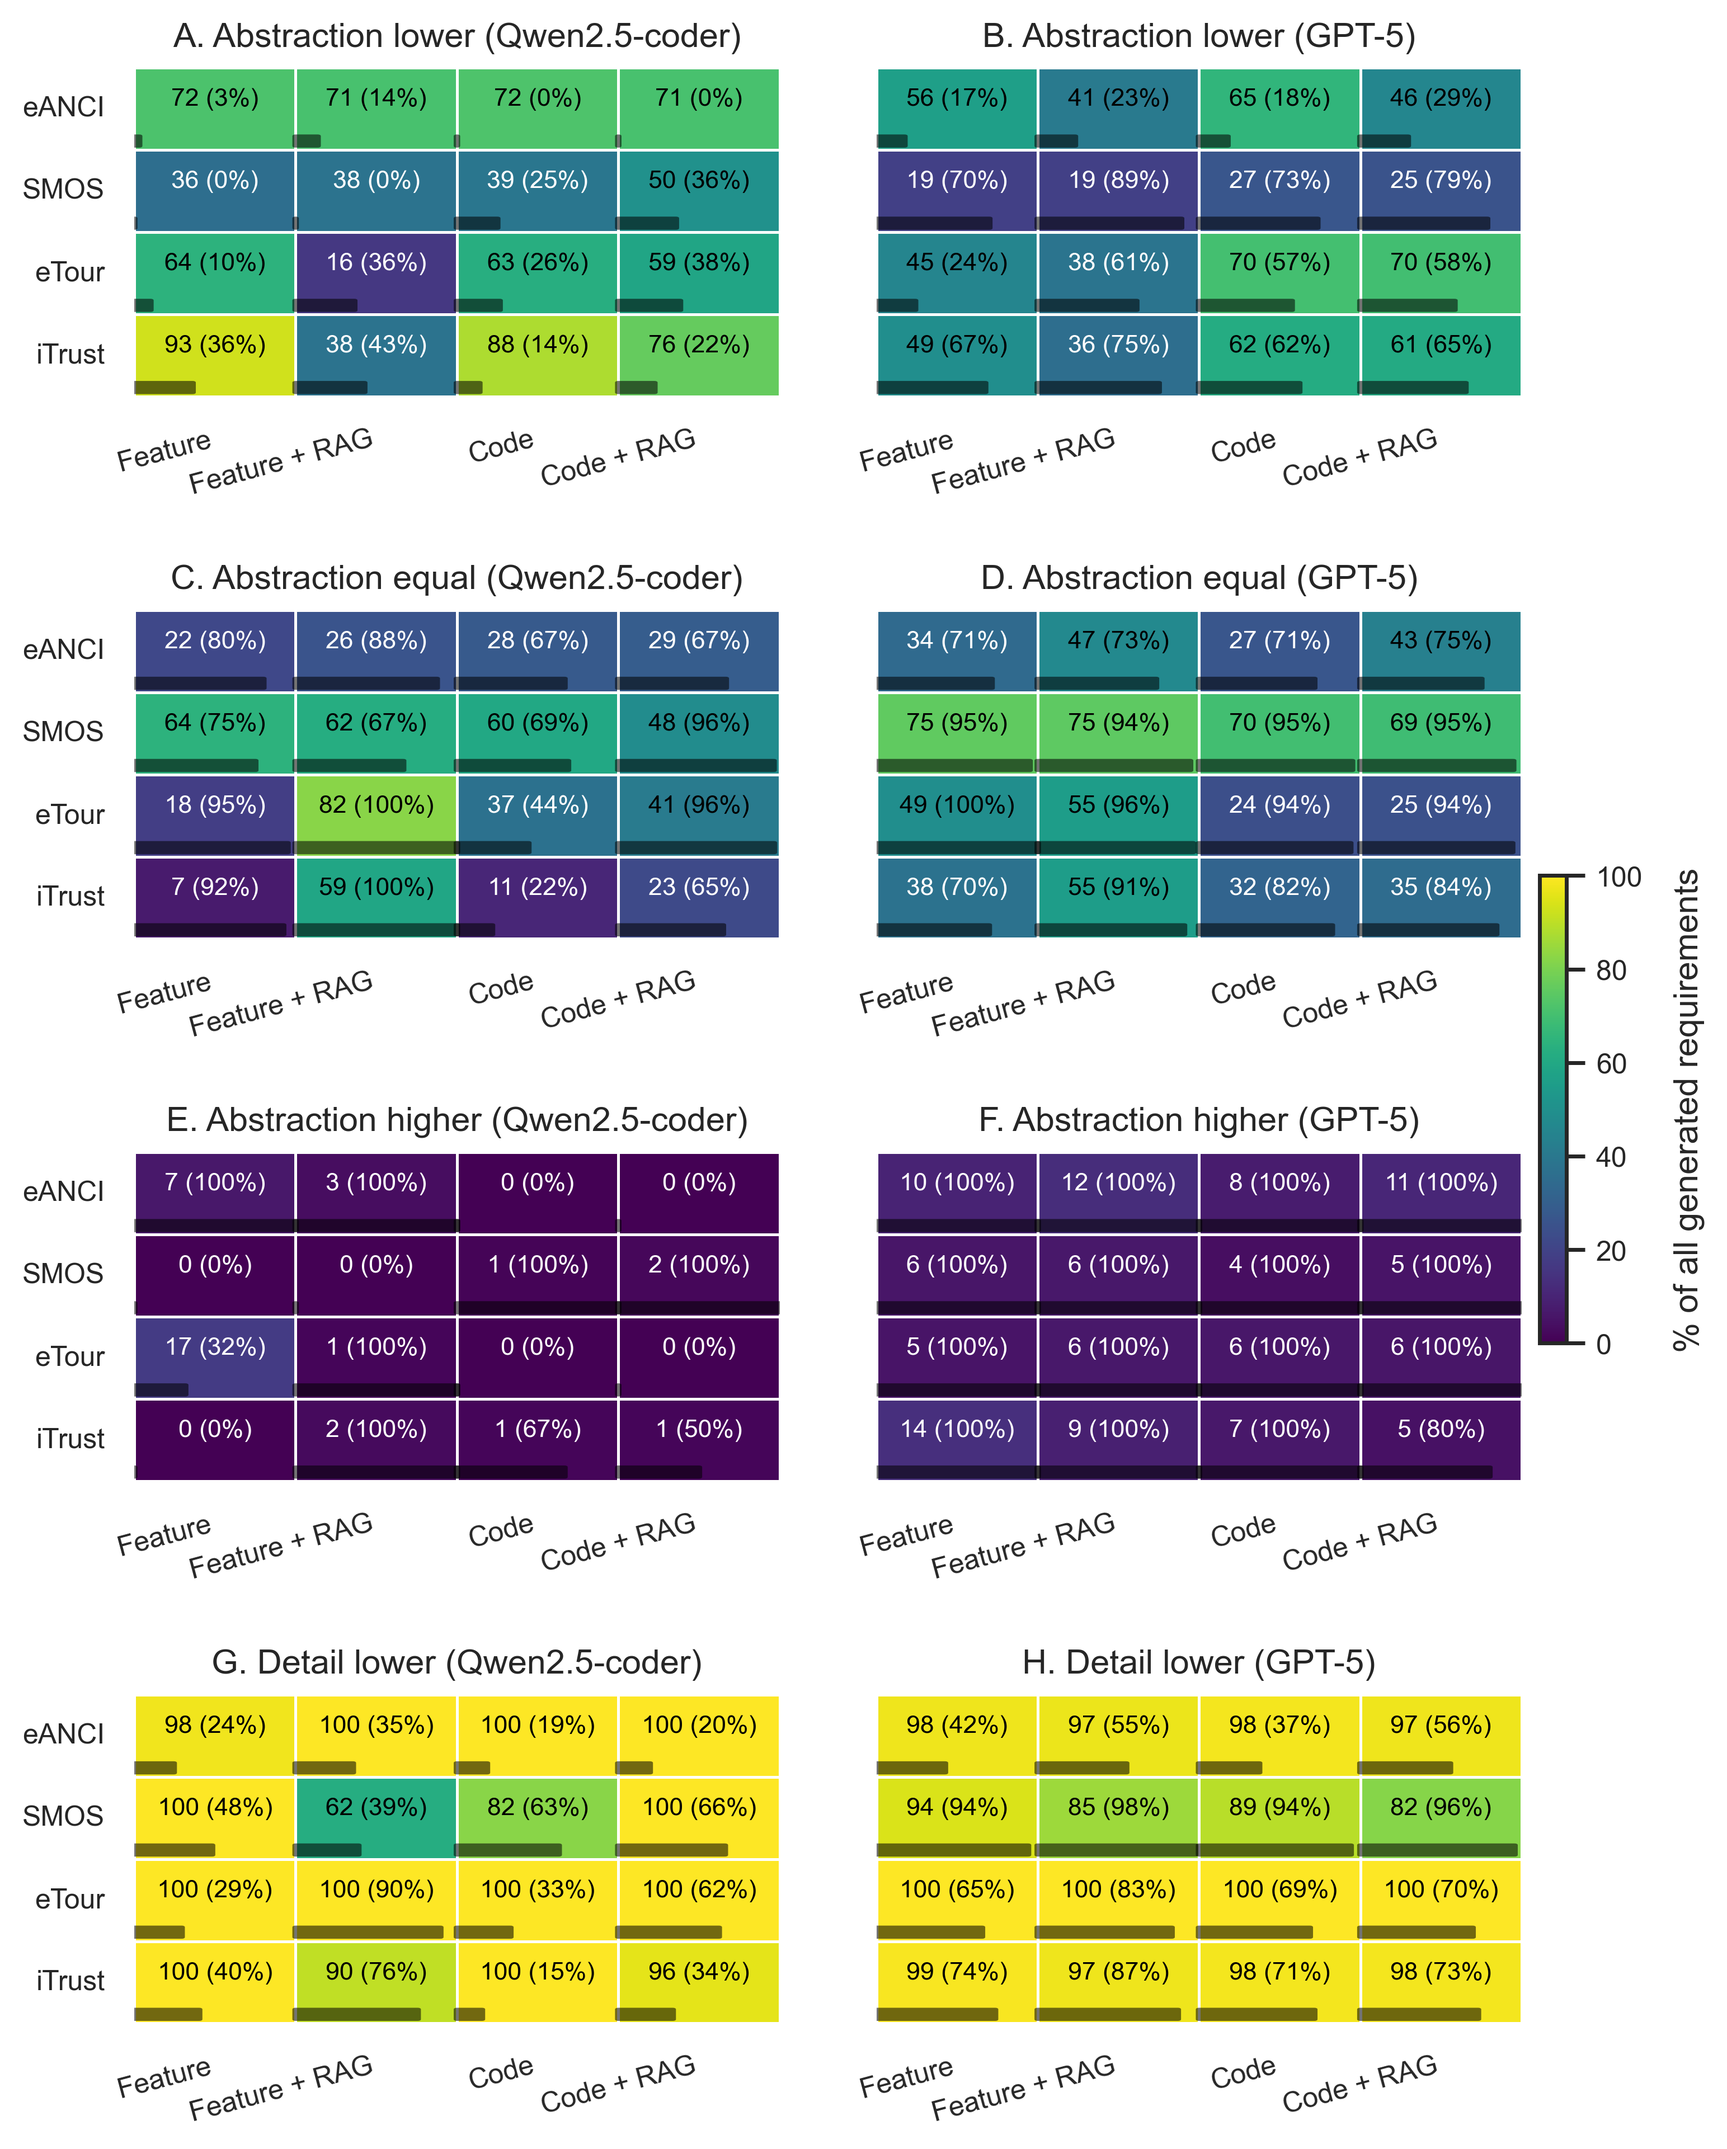
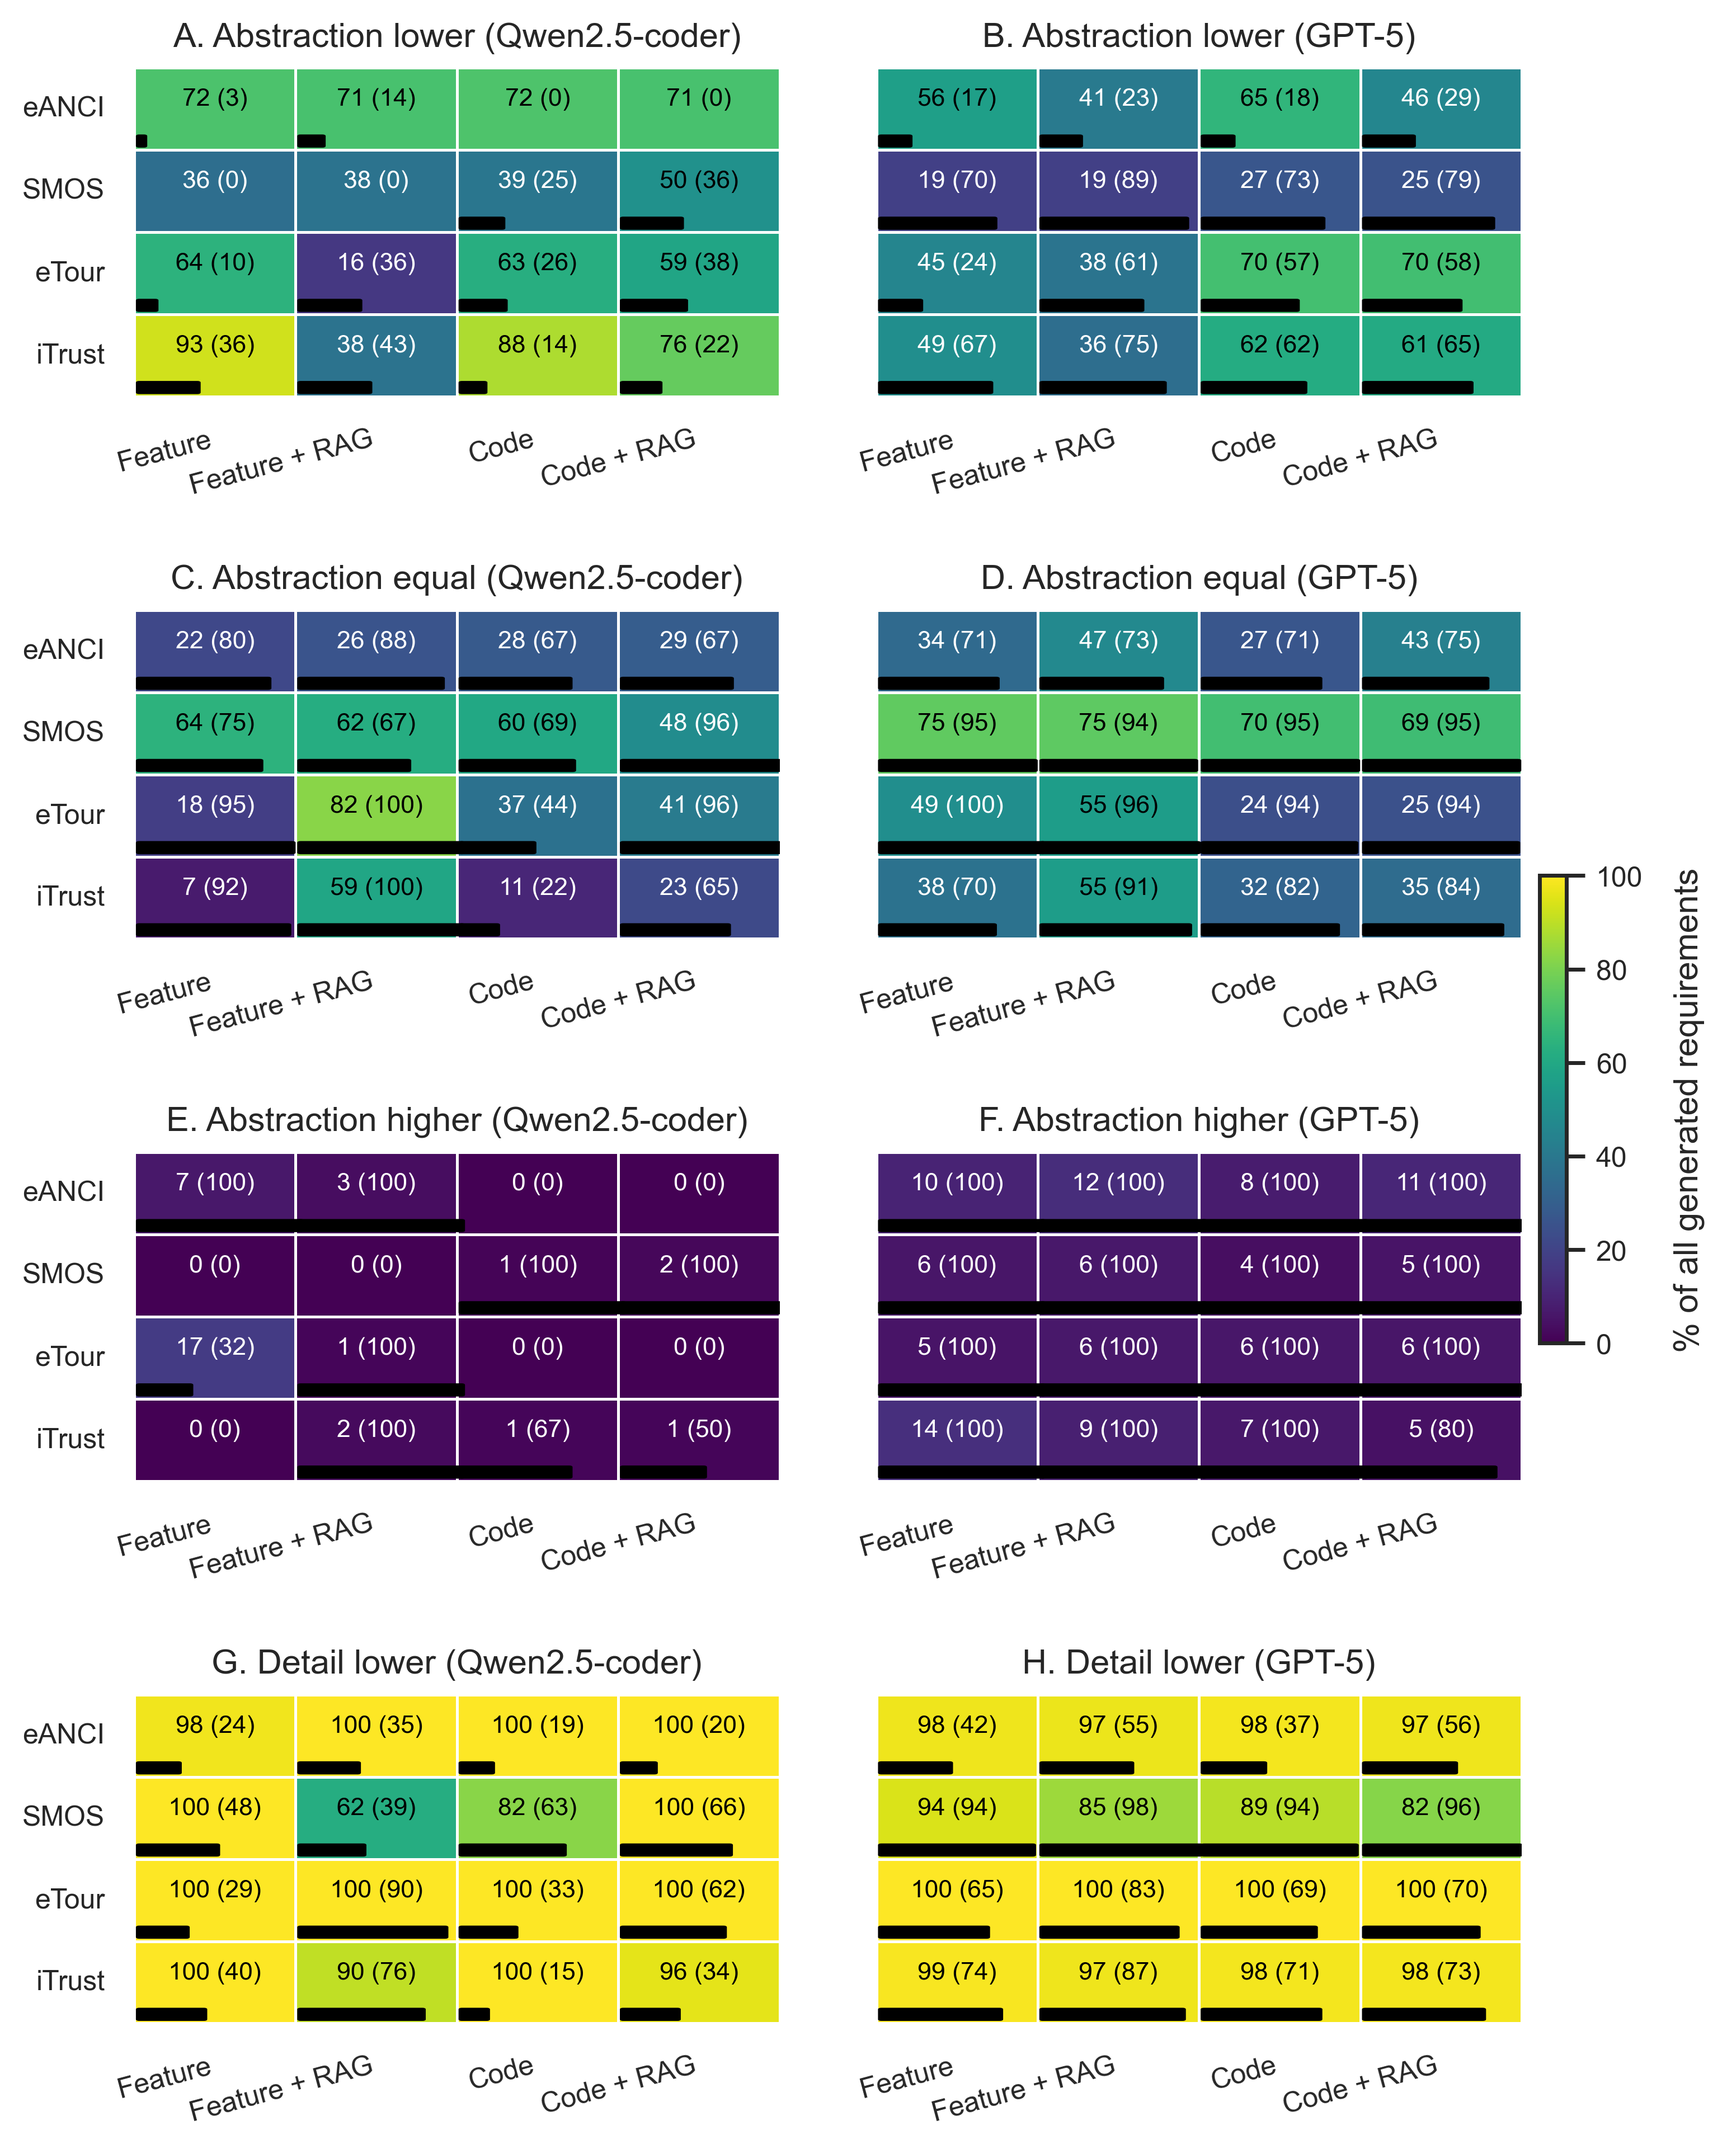
updating plotting scripts

diff --git a/dataAnalysis/1_manual_analysis.py b/dataAnalysis/1_manual_analysis.py
@@ -340,7 +340,7 @@ bars = ax.bar(
     linewidth=0.5,
 )
 yerr = np.nan_to_num(std_f1.values, nan=0.0)
-ax.errorbar(x, avg_f1.values, yerr=yerr, fmt="none", capsize=4, linewidth=1)
+ax.errorbar(x, avg_f1.values, yerr=yerr, fmt="none", capsize=4, linewidth=1, color="black")
 
 # Add numbers above bars
 for bar, value, err in zip(bars, avg_f1.values, yerr):
@@ -351,7 +351,8 @@ for bar, value, err in zip(bars, avg_f1.values, yerr):
         f"{value:.2f}",
         ha="center",
         va="bottom",
-        fontsize=9
+        fontsize=10,
+        color="black"
     )
 
 # Define a mapping from variation string → pretty label
@@ -369,9 +370,9 @@ label_map = {
 # When setting xticklabels, replace with mapped names
 ax.set_xticks(x)
 ax.set_xticklabels([label_map.get(v, v) for v in variations_present], 
-                   rotation=30, ha="right")
+                   rotation=20, ha="right", fontsize=10)
 
-ax.set_ylabel("Average F1 score")
+ax.set_ylabel("Average F1 score", fontsize=11)
 ax.set_title("Average F1 score across projects (eANCI, SMOS, eTour, iTrust)")
 ax.set_ylim(0, 1.05)
 
@@ -441,7 +442,7 @@ for bar, val, err in zip(bars, avg_lifts.values(), yerr):
         f"{val:.1f}%",
         ha="center",
         va="bottom",
-        fontsize=9
+        fontsize=11
     )
 
 # Baseline at y=0
@@ -456,10 +457,10 @@ label_map = {
 }
 ax.set_xticks(x)
 ax.set_xticklabels([label_map.get(v, v) for v in avg_lifts.keys()],
-                   rotation=20, ha="right")
+                   rotation=10, ha="right", fontsize=12)
 
-ax.set_ylabel("Avg. percent change in F1 score")
-ax.set_title("Average percent change in F1 score using RAG across projects")
+ax.set_ylabel("Avg. percent change in F1 score", fontsize=12)
+ax.set_title("Average percent change in F1 score using RAG across projects", fontsize=14)
 
 plt.tight_layout()
 lift_path = plots_dir / "avg_percent_lift_manual_f1.png"

diff --git a/dataAnalysis/4_make_heatmaps_abstraction.py b/dataAnalysis/4_make_heatmaps_abstraction.py
@@ -113,19 +113,20 @@ def plot_abstraction_detail_hybrid_heatmaps(summary: pd.DataFrame, out_path: Pat
                 frac = val_match / 100
 
                 # Add rounded black bar (prettier overlay)
-                bar = FancyBboxPatch(
-                    (j, i + 0.83), frac, 0.12,
-                    boxstyle="round,pad=0.02,rounding_size=0.02",
-                    linewidth=0, facecolor="black", alpha=0.55,
-                    transform=ax.transData
-                )
-                ax.add_patch(bar)
+                if frac>0:
+                    bar = FancyBboxPatch(
+                        (j+0.03, i + 0.83), frac, 0.12,
+                        boxstyle="round,pad=0.02,rounding_size=0.02",
+                        linewidth=0, facecolor="black", alpha=1,
+                        transform=ax.transData
+                    )
+                    ax.add_patch(bar)
 
                 # Annotation text
-                color = "white" if val_base < 40 else "black"
+                color = "white" if val_base < 50 else "black"
                 ax.text(
                     j + 0.5, i + 0.38,
-                    f"{val_base:.0f} ({val_match:.0f}%)",
+                    f"{val_base:.0f} ({val_match:.0f})",
                     ha="center", va="center",
                     color=color, fontsize=8
                 )

diff --git a/dataAnalysis/3_make_heatmaps_details.py b/dataAnalysis/3_make_heatmaps_details.py
@@ -78,7 +78,7 @@ def plot_adherence_heatmaps_vertical(summary: pd.DataFrame, out_path: Path):
                 val = data.iloc[i, j]
                 if pd.isna(val):
                     continue
-                color = "black" if val > 75 else "white"
+                color = "black" if val > 50 else "white"
                 ax.text(j + 0.5, i + 0.5, format(val, fmt),
                         ha="center", va="center", color=color, fontsize=10)
 
